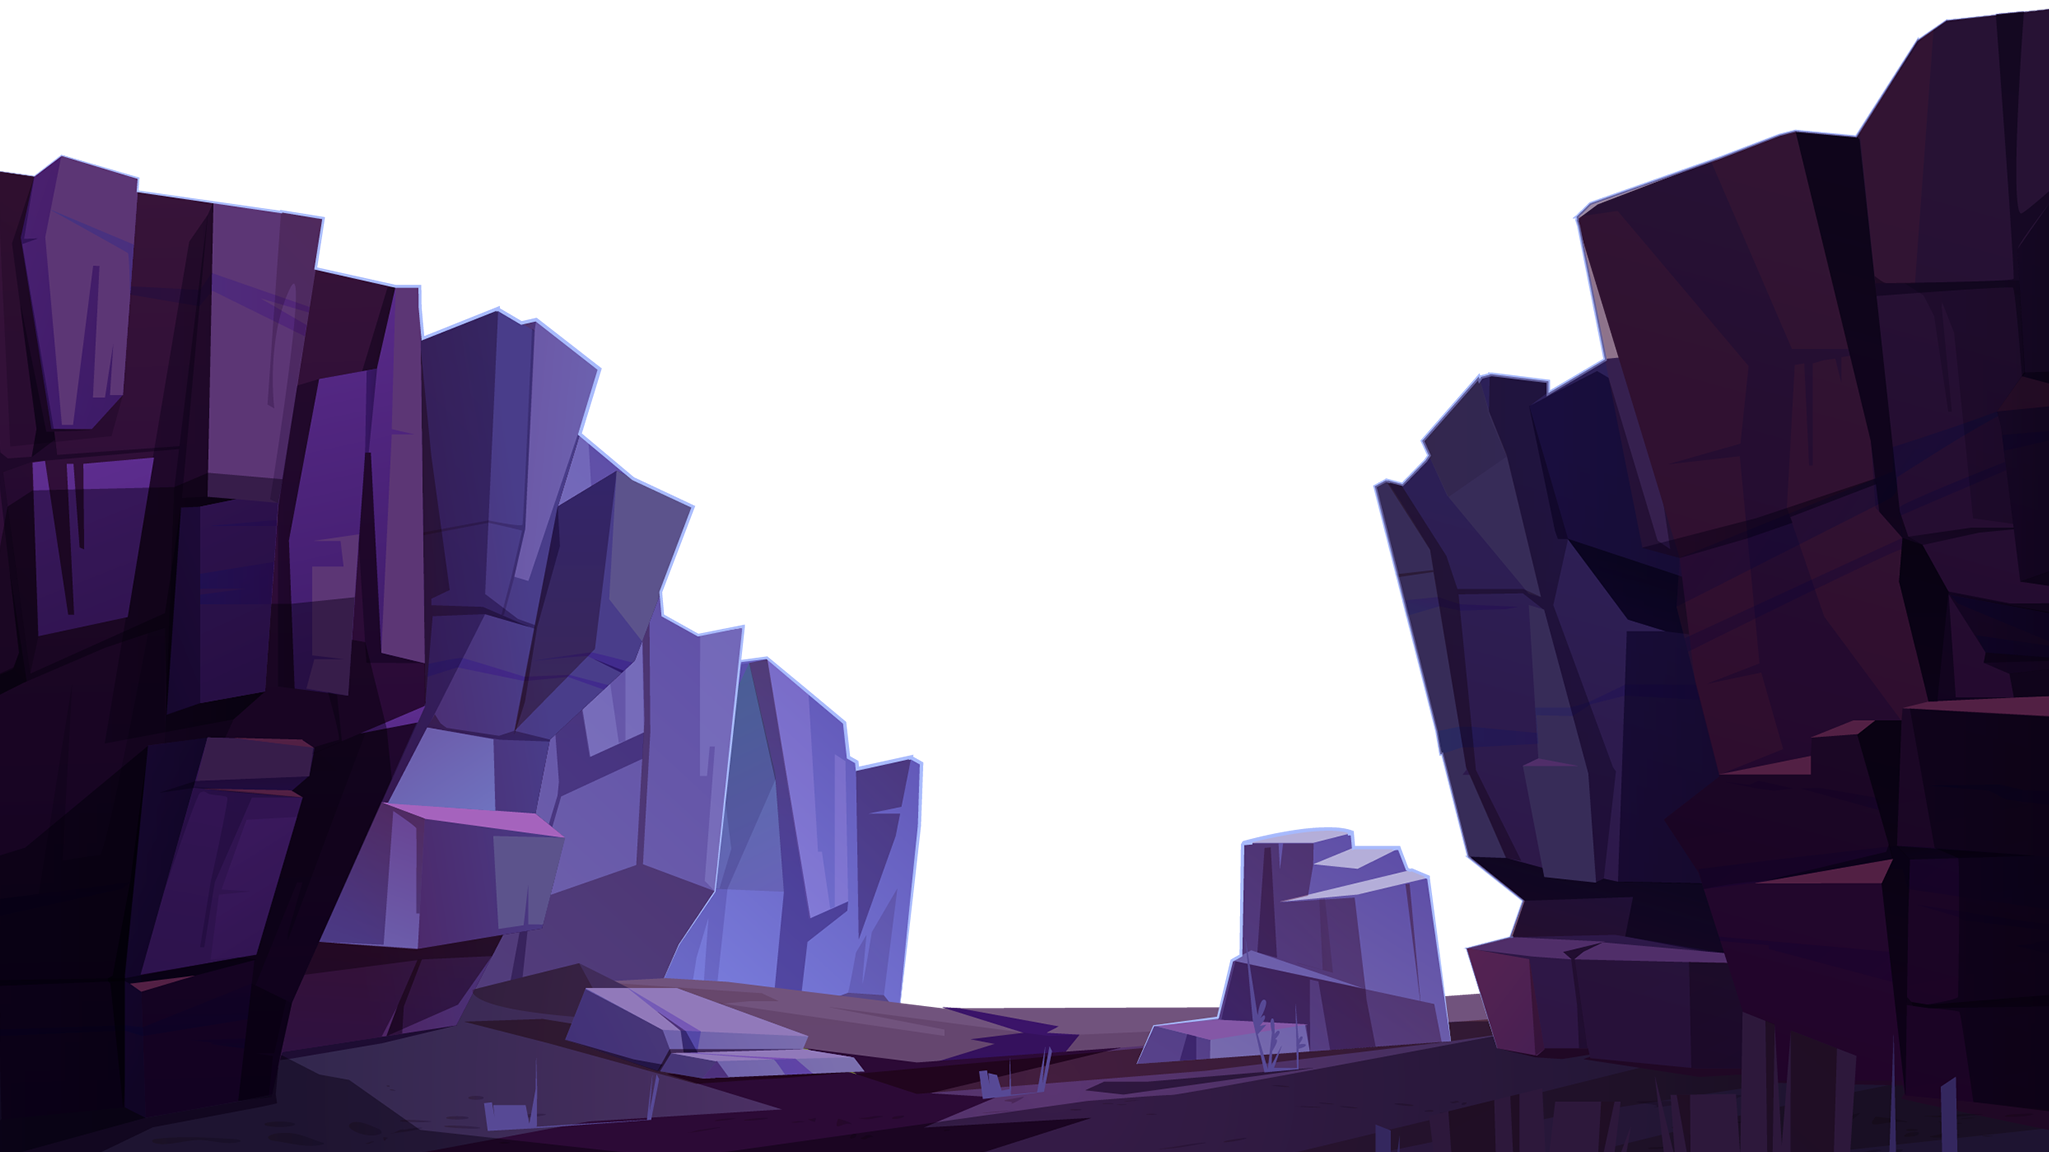
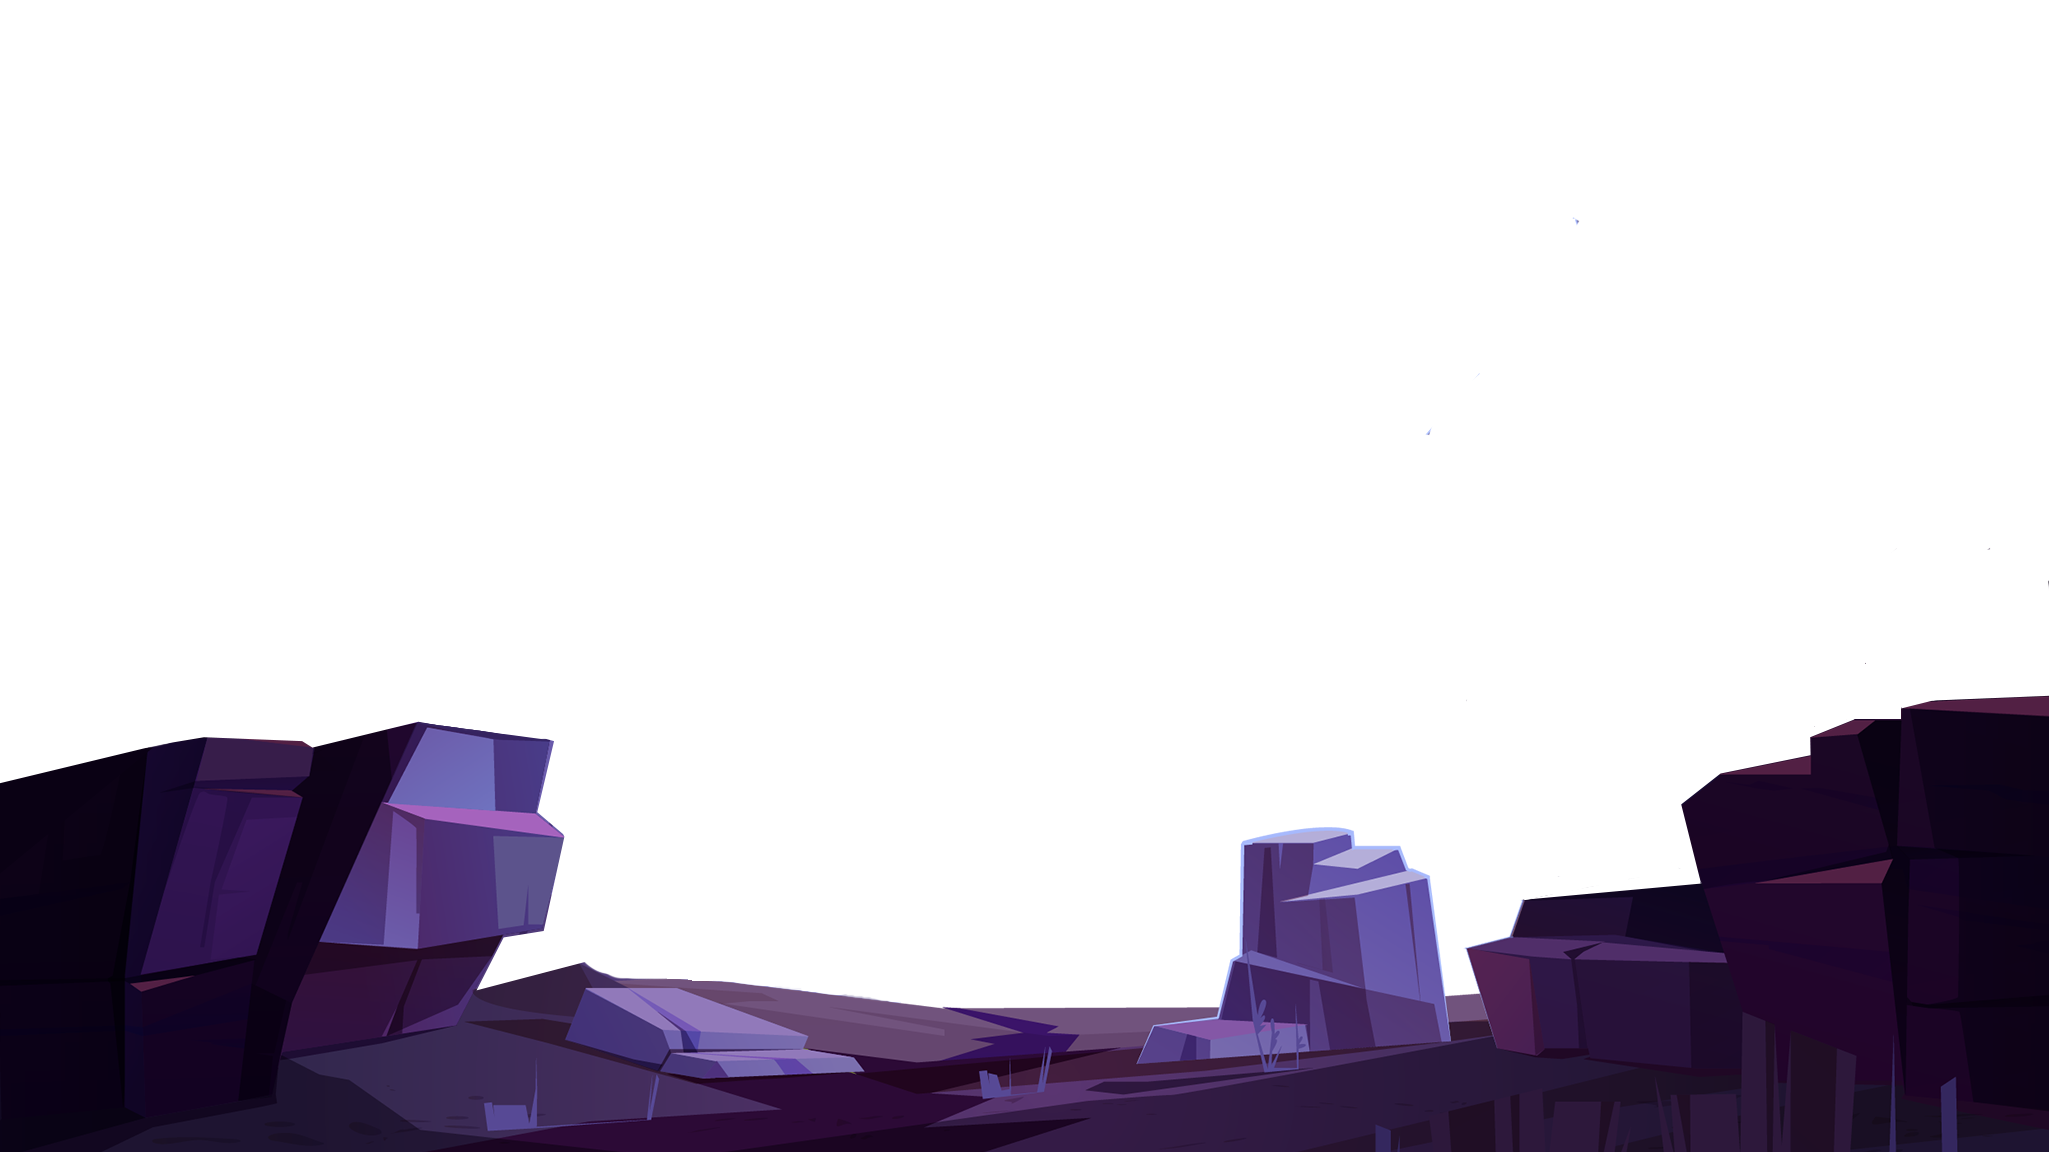
change switch css

diff --git a/front/src/components/Switch.js b/front/src/components/Switch.js
@@ -5,6 +5,10 @@ import {useNetwork, usePrepareSendTransaction, useSendTransaction, useWaitForTra
 import {utils} from "ethers";
 
 import './Switch.css'
+import stars from './images/switch/stars.png'
+import moon from './images/switch/moon.png'
+import m_behind from './images/switch/mountains_behind.png'
+import m_front from './images/switch/mountains_front.png'
 
 export function Switch() {
   const { chain } = useNetwork();
@@ -52,64 +56,70 @@ export function Switch() {
 
   return (
     <div id="Switch-body" className="h-full justify-center items-center flex">
-      <div className="card w-96 bg-base-100 shadow-xl">
-        <div className="card-body p-7" >
-          <div id="button-group" className="mb-3">
-            <button id="buy" className="h-11 w-16 bg-indigo-600 rounded-l-lg text-white text-xl pl-0.5 duration-100" onClick={() => ToBuy()}>Buy</button>
-            <button id="sell" className="h-11 w-16 bg-[#3d4451] rounded-r-lg text-white text-xl pr-0.5 duration-100" onClick={() => ToSell()}>Sell</button>
-          </div>
-          <form
-            onSubmit={(e) => {
-              e.preventDefault();
-              sendTransaction?.();
-            }}
-          >
-            <input
-              type="text"
-              className="input bg-slate-100 min-h-16 w-full max-w-xs mb-5"
-              aria-label="Recipient"
-              onChange={(e) => setTo(e.target.value)}
-              placeholder="0xA0Cf…251e"
-              value={to}
-            />
-            <input
-              type="text"
-              className="input bg-slate-100 min-h-16 w-full max-w-xs mb-5"
-              aria-label="Amount (ether)"
-              onChange={(e) => setAmount(e.target.value)}
-              placeholder="0.05"
-              value={amount}
-            />
-            {Buyon
-                ? <button
-                    className="btn w-full"
-                    disabled={isLoading || !sendTransaction || !to || !amount}
-                    >
+      <section>
+        <img src={stars} alt="" id="stars" />
+        <img src={moon} alt="" id="moon" />
+        <img src={m_behind} alt="" id="mountain_behind" />
+        <div id="BuySell" className="card w-96 bg-base-100 shadow-xl">
+          <div className="card-body p-7" >
+            <div id="button-group" className="mb-3">
+              <button id="buy" className="h-11 w-16 bg-indigo-600 rounded-l-lg text-white text-xl pl-0.5 duration-100" onClick={() => ToBuy()}>Buy</button>
+              <button id="sell" className="h-11 w-16 bg-[#3d4451] rounded-r-lg text-white text-xl pr-0.5 duration-100" onClick={() => ToSell()}>Sell</button>
+            </div>
+            <form
+                onSubmit={(e) => {
+                  e.preventDefault();
+                  sendTransaction?.();
+                }}
+            >
+              <input
+                  type="text"
+                  className="input bg-slate-100 min-h-16 w-full max-w-xs mb-5"
+                  aria-label="Recipient"
+                  onChange={(e) => setTo(e.target.value)}
+                  placeholder="0xA0Cf…251e"
+                  value={to}
+              />
+              <input
+                  type="text"
+                  className="input bg-slate-100 min-h-16 w-full max-w-xs mb-5"
+                  aria-label="Amount (ether)"
+                  onChange={(e) => setAmount(e.target.value)}
+                  placeholder="0.05"
+                  value={amount}
+              />
+              {Buyon
+                  ? <button
+                      className="btn w-full"
+                      disabled={isLoading || !sendTransaction || !to || !amount}
+                  >
                     {isLoading ? "Buying..." : "Buy"}
                   </button>
-                : <button
-                    className="btn w-full"
-                    disabled={isLoading || !sendTransaction || !to || !amount}
-                >
-                  {isLoading ? "Selling..." : "Sell"}
-                </button> }
-            {isSuccess && (
-              <div>
-                Successfully sent {amount} ether to {to}
-                <div>
-                  {checknetwork(chain.name) ? (
-                    <a href={`https://${chain.name}.etherscan.io/tx/${data?.hash}`}>
-                      Etherscan
-                    </a>
-                  ) : (
-                    <a href={`https://etherscan.io/tx/${data?.hash}`}>Etherscan</a>
-                  )}
-                </div>
-              </div>
-            )}
-          </form>
+                  : <button
+                      className="btn w-full"
+                      disabled={isLoading || !sendTransaction || !to || !amount}
+                  >
+                    {isLoading ? "Selling..." : "Sell"}
+                  </button> }
+              {isSuccess && (
+                  <div>
+                    Successfully sent {amount} ether to {to}
+                    <div>
+                      {checknetwork(chain.name) ? (
+                          <a href={`https://${chain.name}.etherscan.io/tx/${data?.hash}`}>
+                            Etherscan
+                          </a>
+                      ) : (
+                          <a href={`https://etherscan.io/tx/${data?.hash}`}>Etherscan</a>
+                      )}
+                    </div>
+                  </div>
+              )}
+            </form>
+          </div>
         </div>
-      </div>
+        <img src={m_front} alt="" id="mountain_front" />
+      </section>
     </div>
   );
 }

diff --git a/front/src/components/Switch.css b/front/src/components/Switch.css
@@ -3,6 +3,35 @@
     /*background: linear-gradient(#2b1055, #7597de);*/
     /*min-height: 100vh;*/
 }
+section {
+    position: relative;
+    width: 100%;
+    height: 93.2vh;
+    padding: 100px;
+    display: flex;
+    justify-content: center;
+}
+section img{
+    position: absolute;
+    top: 0;
+    left: 0;
+    width: 100%;
+    height: 100%;
+    object-fit: cover;
+    pointer-events: none;
+}
+section img#moon{
+    mix-blend-mode: screen; /*背景融合方法*/
+}
+
+section img#mountain_front{
+    width: 100%;
+}
+
+#BuySell {
+    top: 20%;
+    height: 36.5vh;
+}
 
 /*#Switch-body::before {*/
 /*    content: '';*/
